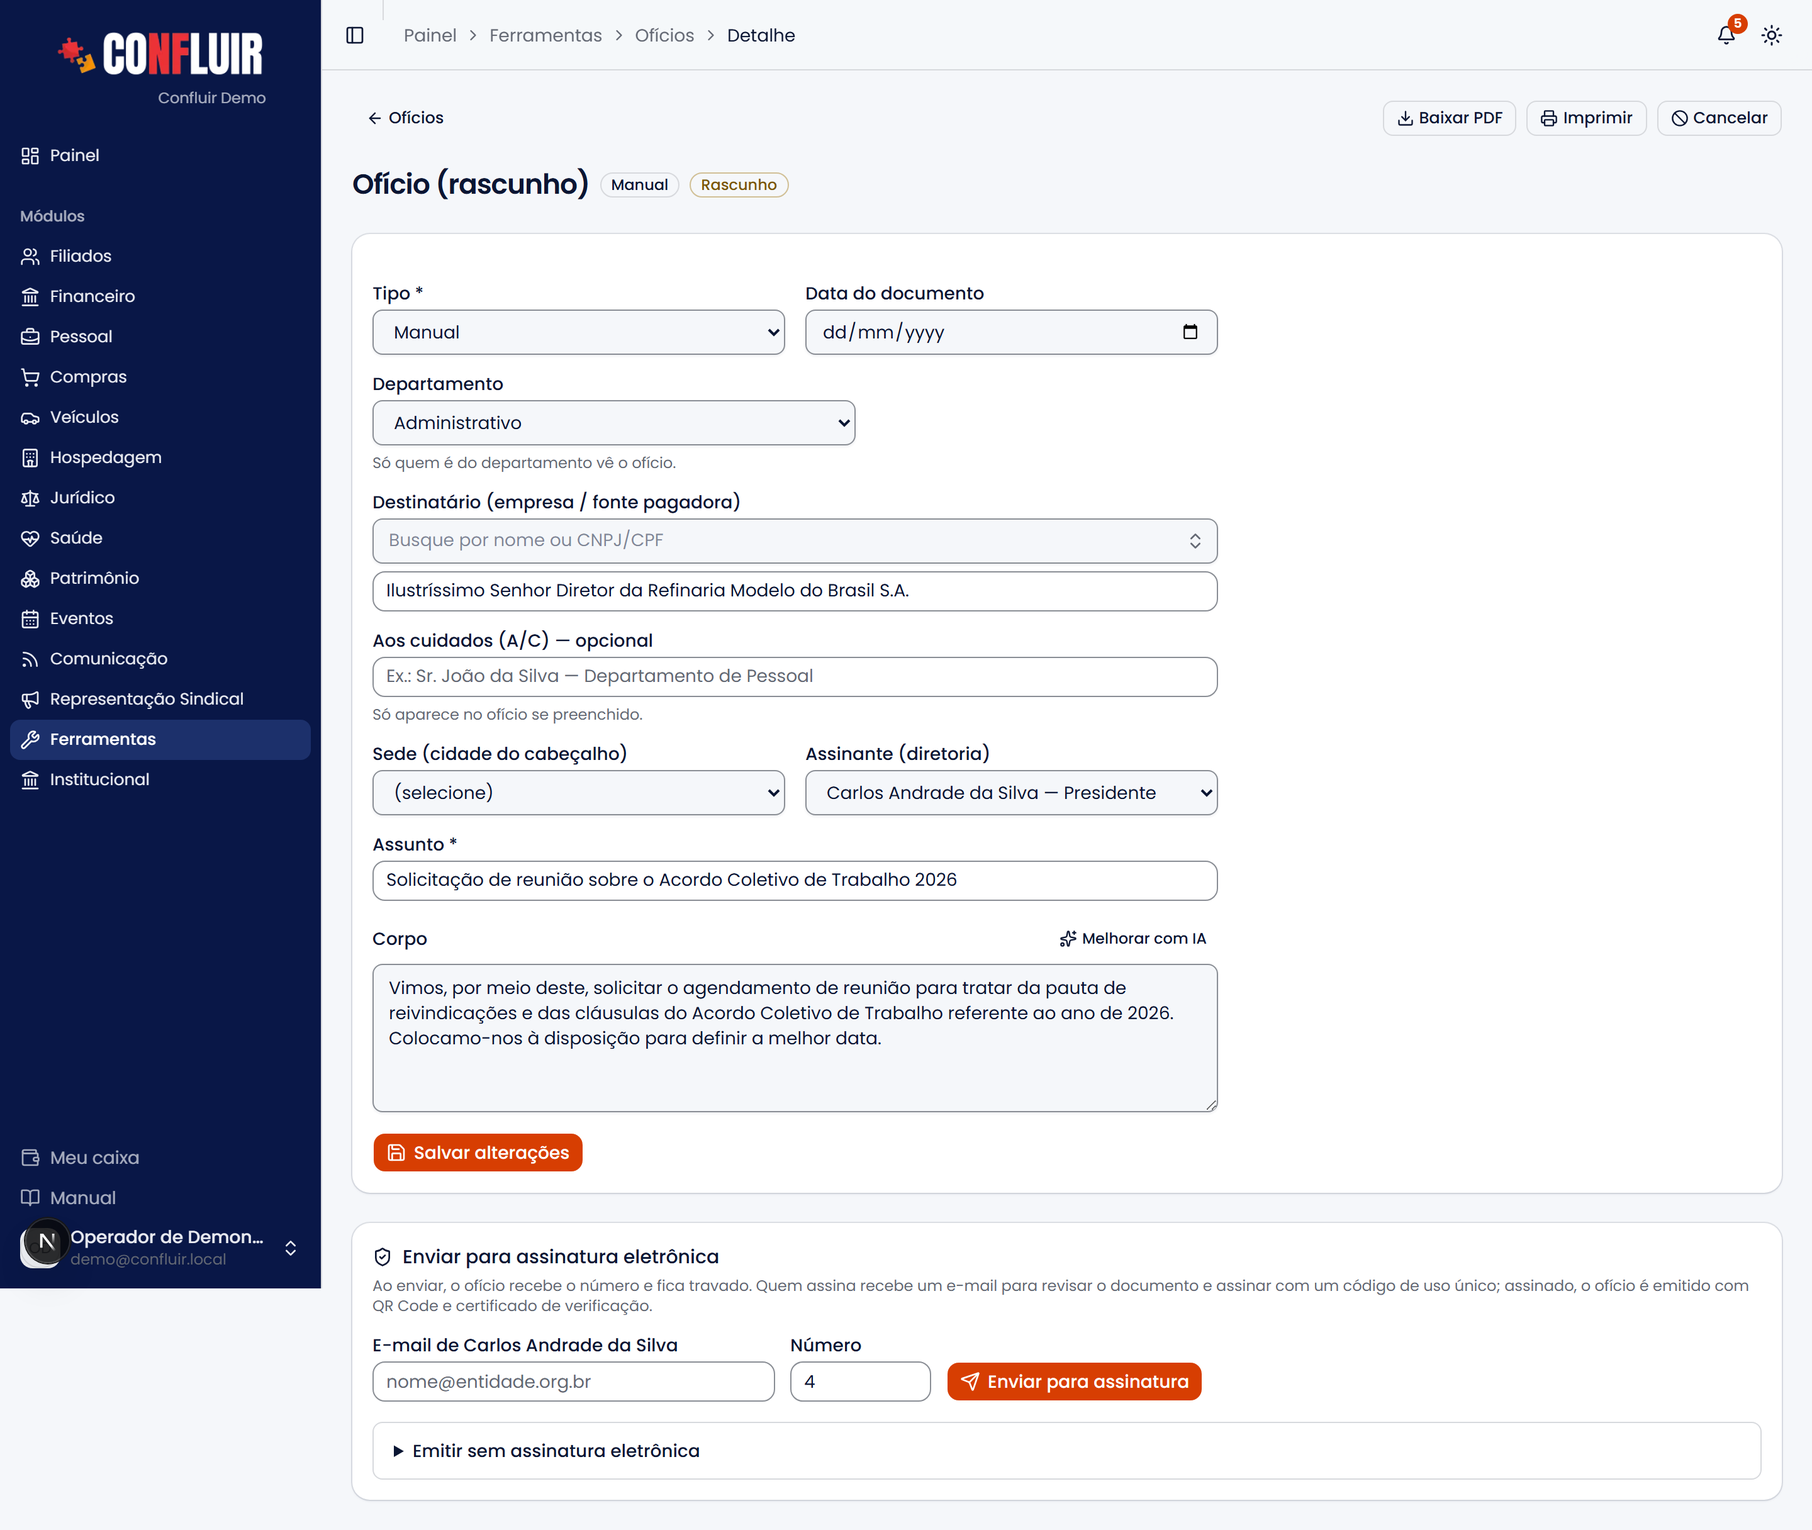
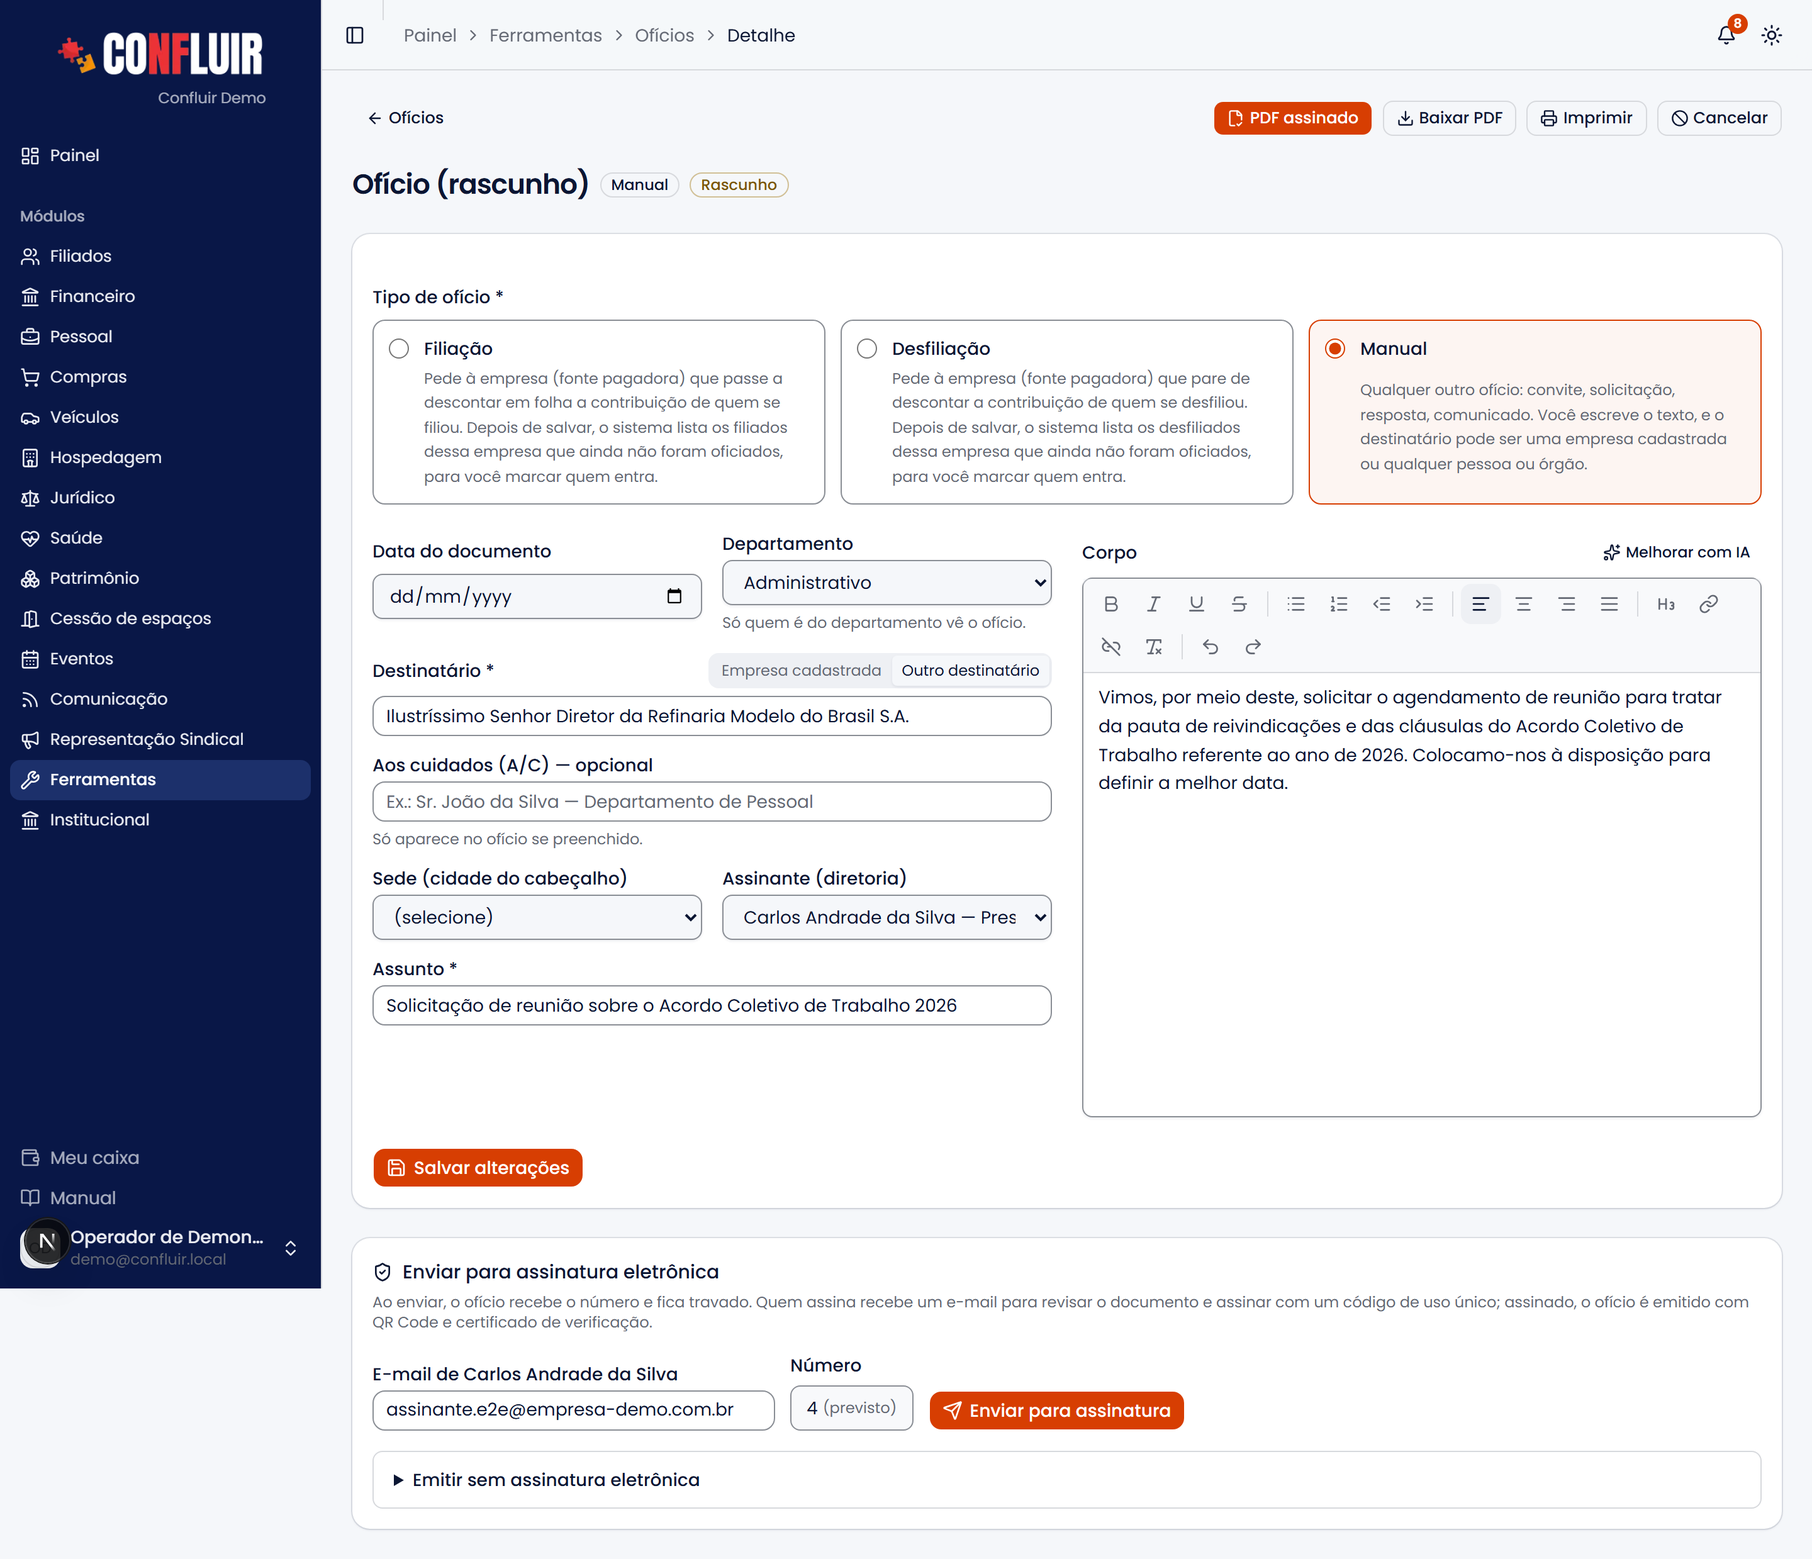
Manual: Ofícios — tipo antes do formulário e editor com formatação
- O ofício novo começa pelo tipo (Filiação, Desfiliação, Manual), com o que
  cada um faz; seção "Ofícios de filiação e desfiliação" (a lista de quem
  ainda não foi oficiado na empresa).
- Seção "Formatar o texto": negrito, itálico, sublinhado, tachado, listas com
  subníveis por Tab, recuo, alinhamento, título, link, limpar, desfazer e
  refazer; o que entra ao colar do Word/e-mail; a IA mantém a formatação.
- Ofícios do sistema anterior voltam a mostrar a formatação que tinham.
- Prints: o ofício novo (tipos) e o rascunho refeito com a barra de
  formatação; base de ajuda regerada.

diff --git a/src/lib/ajuda/base-conhecimento.ts b/src/lib/ajuda/base-conhecimento.ts
@@ -92,7 +92,7 @@ export const BASE_AJUDA: ArtigoBase[] = [
   {
     "area": "ferramentas",
     "slug": "oficios",
-    "texto": "Os ofícios são os documentos oficiais da entidade, com numeração por\nano, signatário da diretoria, assinatura eletrônica e geração de\nPDF com QR Code de verificação.\n\n Ofícios \n\n Quem vê cada ofício\n\nCada ofício pertence a um departamento, e cada pessoa vê só os ofícios dos\nseus departamentos — aqueles em que está vinculada ou é coordenadora, em\nInstitucional → Organização → Departamentos. A lista mostra, no alto, de quais\ndepartamentos você vê ofícios.\n\nQuem precisa ver todos — presidência, secretaria-geral — recebe a permissão\nOfícios — todos os departamentos, que também mostra os ofícios sem\ndepartamento (os antigos que vieram assim do sistema anterior) e libera o\nfiltro por departamento.\n\n \n\nOfício de outro departamento: \n Para quem não é do departamento, o ofício não existe: não aparece na lista, e\n o endereço direto, a impressão e o PDF respondem \"não encontrado\".\n \n\n Emitir um ofício\n\n \n \nRascunho: \n Escolha o departamento do ofício (só aparecem os seus; se você tem um só,\n ele já vem escolhido) e preencha destinatário, assunto e corpo. O signatário vem dos integrantes\n vigentes da diretoria. Há um campo opcional \"Aos cuidados\".\n \n \nEnviar para assinatura: \n No cartão Enviar para assinatura eletrônica, escolha por onde vai o\n convite — e-mail ou Telegram — confira o endereço (o sistema sugere o\n último usado, o do usuário do painel ou o da filiação) e o número (o\n próximo do ano é sugerido). Ao enviar, o ofício recebe o número, fica\n travado em \"Aguardando assinatura\" e o assinante recebe o convite.\n \n \nO assinante assina: \n Pelo botão Revisar e assinar do convite, o assinante lê o ofício\n inteiro, marca que concorda, pede um código de uso único (chega no mesmo\n canal, vale 10 minutos) e assina. Não precisa de login no Confluir.\n \n \nEmitido, com QR Code e certificado: \n Assinado, o ofício passa a Emitido sozinho. O PDF final leva o QR\n Code ao lado do cabeçalho, o carimbo \"Assinado eletronicamente em … ·\n Certificado …\" sob a assinatura e uma página final Certificado de\n assinatura eletrônica com a trilha. Quem enviou recebe e-mail e\n notificação.\n \n \n\nTipos automáticos poupam digitação: \n Alguns tipos (filiação/desfiliação) carregam a lista de pessoas a partir da\n fonte pagadora, sem você digitar nome a nome.\n \n\nOfício de liberação sindical: \n Um ofício emitido pode ser escolhido em Institucional › Diretoria para\n registrar várias liberações de uma vez. A página do ofício passa a listar\n as pessoas liberadas por ele.\n \n\n Assinatura eletrônica\n\n Quem assina não tem e-mail\n\nO Telegram resolve: se o assinante tem conta vinculada e telefone\nconfirmado em Meu perfil → Telegram, a opção Telegram aparece no cartão\nde envio, e tanto o convite quanto o código chegam pelo bot. Sem e-mail e sem\nTelegram, resta Emitir sem assinatura eletrônica e anexar depois o PDF\nassinado à mão (abaixo).\n\n Acompanhar\n\nO cartão Assinatura eletrônica do ofício mostra os três passos — enviado,\naberto pelo assinante, assinado — com data e hora, e a trilha de auditoria:\ncada envio, abertura do link, código enviado ou digitado errado, assinatura,\nrecusa e cancelamento, com endereço IP. Enquanto aguarda:\n\n- Reenviar e-mail — manda o convite de novo (lembrete) para o mesmo\n endereço.\n- Cancelar envio — o link deixa de valer e o ofício volta ao rascunho com\n o número reservado. Use para corrigir o texto ou o e-mail.\n\nQuando o assinante abre o link depois de assinado, recusado ou cancelado, a\npágina mostra o status atual em vez do passo a passo.\n\n Recusa\n\nO assinante pode recusar e dizer o motivo. O ofício volta ao rascunho, com\no número reservado; o motivo aparece no alto do cartão de envio, e quem enviou\nrecebe e-mail e notificação. Corrija e envie de novo.\n\n Conferência pelo QR Code\n\nO QR Code abre a página Verificação de assinatura (sem login), que confirma\no certificado, o número, o assunto, quem assinou, a data e hora e o resumo\nSHA-256 do conteúdo — sem mostrar o texto do ofício. Se a entidade cancelar o\nofício depois de assinado, a página avisa.\n\nPor que o conteúdo não muda depois do envio: \n No envio, o sistema calcula um resumo (SHA-256) de tudo o que o PDF mostra. Na\n assinatura, calcula de novo e só assina se for igual — o que o assinante leu é\n o que ele assinou. A assinatura eletrônica segue a Lei nº 14.063/2020; não é\n certificado digital ICP-Brasil.\n \n\n Emitir sem assinatura eletrônica\n\nPara ofício assinado à mão, abra Emitir sem assinatura eletrônica no fim do\ncartão de envio: o número é atribuído e o documento fica travado, sem QR Code\nnem certificado.\n\nEmitido assim, aparece no ofício o cartão Documento assinado à mão: anexe\nali o PDF assinado e digitalizado (até 10 MB). Ele passa a abrir pelo botão\nPDF assinado, no topo — o mesmo lugar dos ofícios do sistema anterior. Dá\npara substituir o arquivo; o anterior fica guardado no histórico.\n\n Ofícios do sistema anterior\n\nOs ofícios do sistema anterior estão na mesma lista, com número e ano. Neles o\ndocumento oficial é o arquivo assinado: quando existe, o botão PDF\nassinado aparece no topo, ao lado de Baixar PDF (que gera o PDF a partir do\ntexto). O detalhe mostra também o departamento emissor, o redator, o\n\"aos cuidados\" e as respostas recebidas, quando foram anexadas.\n\n \n\n Erros comuns\n\n- \"A lista de ofícios está vazia.\" Você não está vinculado a nenhum\n departamento — peça o vínculo em Institucional → Organização → Departamentos.\n- \"Não acho um ofício que sei que existe.\" Ele é de outro departamento (ou\n está sem departamento). Peça a quem tem Ofícios — todos os departamentos.\n- \"Não aparece o signatário que quero.\" O signatário vem dos integrantes\n vigentes da diretoria — confira o mandato em Institucional → Diretoria.\n- \"Emiti e agora não consigo editar.\" Um ofício emitido fica travado\n (é oficial). Emita um novo se precisar corrigir. Se ainda está aguardando\n assinatura, use Cancelar envio: volta ao rascunho com o mesmo número.\n- \"O assinante não recebeu o convite.\" Confira o destino na trilha, peça\n para olhar a caixa de spam e use Reenviar convite. Destino errado:\n cancele o envio e envie de novo com o endereço certo.\n- \"A opção Telegram não aparece.\" O assinante ainda não vinculou a conta ou\n não confirmou o telefone em Meu perfil → Telegram — e ele precisa ter\n usuário no painel.\n- \"O código não chegou ou expirou.\" O código vale 10 minutos; na página de\n assinatura, Enviar outro código (um por minuto). Cinco erros seguidos\n exigem um código novo.\n- \"Um ofício antigo aparece sem número.\" O sistema anterior deixou dois\n ofícios com o mesmo número no mesmo ano; aqui a numeração não se repete, então\n o segundo entrou sem número — o assunto e o arquivo continuam lá.\n- \"O número saiu fora de sequência.\" O sistema sugere o próximo do ano,\n mas confira antes de emitir — a numeração é por ano."
+    "texto": "Os ofícios são os documentos oficiais da entidade, com numeração por\nano, signatário da diretoria, assinatura eletrônica e geração de\nPDF com QR Code de verificação.\n\n Ofícios \n\n Quem vê cada ofício\n\nCada ofício pertence a um departamento, e cada pessoa vê só os ofícios dos\nseus departamentos — aqueles em que está vinculada ou é coordenadora, em\nInstitucional → Organização → Departamentos. A lista mostra, no alto, de quais\ndepartamentos você vê ofícios.\n\nQuem precisa ver todos — presidência, secretaria-geral — recebe a permissão\nOfícios — todos os departamentos, que também mostra os ofícios sem\ndepartamento (os antigos que vieram assim do sistema anterior) e libera o\nfiltro por departamento.\n\n \n\nOfício de outro departamento: \n Para quem não é do departamento, o ofício não existe: não aparece na lista, e\n o endereço direto, a impressão e o PDF respondem \"não encontrado\".\n \n\n Emitir um ofício\n\n \n \nO tipo: \n Novo ofício começa pela escolha do tipo — o resto do formulário só\n abre depois dela, já com o assunto e o texto padrão daquele tipo:\n Filiação e Desfiliação pedem à empresa que comece ou pare de\n descontar a contribuição (ver Ofícios de filiação e desfiliação, abaixo);\n Manual é qualquer outro — convite, solicitação, resposta, comunicado —,\n para uma empresa cadastrada ou qualquer pessoa ou órgão.\n \n \nRascunho: \n Escolha o departamento do ofício (só aparecem os seus; se você tem um só,\n ele já vem escolhido) e preencha destinatário, assunto e corpo — o corpo tem barra de formatação\n (ver Formatar o texto, abaixo). O signatário vem dos integrantes\n vigentes da diretoria. Há um campo opcional \"Aos cuidados\".\n \n \nEnviar para assinatura: \n No cartão Enviar para assinatura eletrônica, escolha por onde vai o\n convite — e-mail ou Telegram — confira o endereço (o sistema sugere o\n último usado, o do usuário do painel ou o da filiação) e o número (o\n próximo do ano é sugerido). Ao enviar, o ofício recebe o número, fica\n travado em \"Aguardando assinatura\" e o assinante recebe o convite.\n \n \nO assinante assina: \n Pelo botão Revisar e assinar do convite, o assinante lê o ofício\n inteiro, marca que concorda, pede um código de uso único (chega no mesmo\n canal, vale 10 minutos) e assina. Não precisa de login no Confluir.\n \n \nEmitido, com QR Code e certificado: \n Assinado, o ofício passa a Emitido sozinho. O PDF final leva o QR\n Code ao lado do cabeçalho, o carimbo \"Assinado eletronicamente em … ·\n Certificado …\" sob a assinatura e uma página final Certificado de\n assinatura eletrônica com a trilha. Quem enviou recebe e-mail e\n notificação.\n \n \n\n \n\n Ofícios de filiação e desfiliação\n\nNos tipos Filiação e Desfiliação, o destinatário é a empresa (fonte\npagadora) — é dela que sai a lista de nomes. Depois de salvar, o sistema\nmostra os filiados (ou desfiliados) dessa empresa que ainda não foram\noficiados, e você marca quem entra. Não é preciso digitar nome a nome.\n\n Formatar o texto\n\nO corpo do ofício tem uma barra de formatação, como num editor de texto:\n\n- Negrito (Ctrl+B), itálico (Ctrl+I), sublinhado (Ctrl+U) e tachado;\n- listas com marcadores ou numeradas — Tab cria um subnível e\n Shift+Tab volta; fora das listas, Tab e Shift+Tab mudam o recuo;\n- alinhamento à esquerda, centralizado, à direita ou justificado;\n- título de seção, para dividir ofícios longos;\n- link, para inserir e remover;\n- limpar formatação do trecho selecionado, desfazer (Ctrl+Z) e\n refazer (Ctrl+Y).\n\nA formatação sai igual na página do ofício, na impressão e no PDF. Melhorar\ncom IA mantém a formatação do texto.\n\nColar do Word ou do e-mail: \n Pode colar: o texto entra com o que o ofício sabe mostrar — negrito, listas,\n alinhamento, títulos, links. Imagens ficam de fora, uma tabela vira linhas\n de texto e o resto da formatação (cores, fontes) é descartado.\n \n\nOfício de liberação sindical: \n Um ofício emitido pode ser escolhido em Institucional › Diretoria para\n registrar várias liberações de uma vez. A página do ofício passa a listar\n as pessoas liberadas por ele.\n \n\n Assinatura eletrônica\n\n Quem assina não tem e-mail\n\nO Telegram resolve: se o assinante tem conta vinculada e telefone\nconfirmado em Meu perfil → Telegram, a opção Telegram aparece no cartão\nde envio, e tanto o convite quanto o código chegam pelo bot. Sem e-mail e sem\nTelegram, resta Emitir sem assinatura eletrônica e anexar depois o PDF\nassinado à mão (abaixo).\n\n Acompanhar\n\nO cartão Assinatura eletrônica do ofício mostra os três passos — enviado,\naberto pelo assinante, assinado — com data e hora, e a trilha de auditoria:\ncada envio, abertura do link, código enviado ou digitado errado, assinatura,\nrecusa e cancelamento, com endereço IP. Enquanto aguarda:\n\n- Reenviar e-mail — manda o convite de novo (lembrete) para o mesmo\n endereço.\n- Cancelar envio — o link deixa de valer e o ofício volta ao rascunho com\n o número reservado. Use para corrigir o texto ou o e-mail.\n\nQuando o assinante abre o link depois de assinado, recusado ou cancelado, a\npágina mostra o status atual em vez do passo a passo.\n\n Recusa\n\nO assinante pode recusar e dizer o motivo. O ofício volta ao rascunho, com\no número reservado; o motivo aparece no alto do cartão de envio, e quem enviou\nrecebe e-mail e notificação. Corrija e envie de novo.\n\n Conferência pelo QR Code\n\nO QR Code abre a página Verificação de assinatura (sem login), que confirma\no certificado, o número, o assunto, quem assinou, a data e hora e o resumo\nSHA-256 do conteúdo — sem mostrar o texto do ofício. Se a entidade cancelar o\nofício depois de assinado, a página avisa.\n\nPor que o conteúdo não muda depois do envio: \n No envio, o sistema calcula um resumo (SHA-256) de tudo o que o PDF mostra. Na\n assinatura, calcula de novo e só assina se for igual — o que o assinante leu é\n o que ele assinou. A assinatura eletrônica segue a Lei nº 14.063/2020; não é\n certificado digital ICP-Brasil.\n \n\n Emitir sem assinatura eletrônica\n\nPara ofício assinado à mão, abra Emitir sem assinatura eletrônica no fim do\ncartão de envio: o número é atribuído e o documento fica travado, sem QR Code\nnem certificado.\n\nEmitido assim, aparece no ofício o cartão Documento assinado à mão: anexe\nali o PDF assinado e digitalizado (até 10 MB). Ele passa a abrir pelo botão\nPDF assinado, no topo — o mesmo lugar dos ofícios do sistema anterior. Dá\npara substituir o arquivo; o anterior fica guardado no histórico.\n\n Ofícios do sistema anterior\n\nOs ofícios do sistema anterior estão na mesma lista, com número e ano. Neles o\ndocumento oficial é o arquivo assinado: quando existe, o botão PDF\nassinado aparece no topo, ao lado de Baixar PDF (que gera o PDF a partir do\ntexto). O detalhe mostra também o departamento emissor, o redator, o\n\"aos cuidados\" e as respostas recebidas, quando foram anexadas.\n\nA formatação que esses ofícios tinham — negrito, texto justificado, listas,\ntítulos — aparece na página, na impressão e no PDF gerado, como no sistema\nanterior.\n\n \n\n Erros comuns\n\n- \"A lista de ofícios está vazia.\" Você não está vinculado a nenhum\n departamento — peça o vínculo em Institucional → Organização → Departamentos.\n- \"Não acho um ofício que sei que existe.\" Ele é de outro departamento (ou\n está sem departamento). Peça a quem tem Ofícios — todos os departamentos.\n- \"Não aparece o signatário que quero.\" O signatário vem dos integrantes\n vigentes da diretoria — confira o mandato em Institucional → Diretoria.\n- \"Emiti e agora não consigo editar.\" Um ofício emitido fica travado\n (é oficial). Emita um novo se precisar corrigir. Se ainda está aguardando\n assinatura, use Cancelar envio: volta ao rascunho com o mesmo número.\n- \"O assinante não recebeu o convite.\" Confira o destino na trilha, peça\n para olhar a caixa de spam e use Reenviar convite. Destino errado:\n cancele o envio e envie de novo com o endereço certo.\n- \"A opção Telegram não aparece.\" O assinante ainda não vinculou a conta ou\n não confirmou o telefone em Meu perfil → Telegram — e ele precisa ter\n usuário no painel.\n- \"O código não chegou ou expirou.\" O código vale 10 minutos; na página de\n assinatura, Enviar outro código (um por minuto). Cinco erros seguidos\n exigem um código novo.\n- \"Um ofício antigo aparece sem número.\" O sistema anterior deixou dois\n ofícios com o mesmo número no mesmo ano; aqui a numeração não se repete, então\n o segundo entrou sem número — o assunto e o arquivo continuam lá.\n- \"O número saiu fora de sequência.\" O sistema sugere o próximo do ano,\n mas confira antes de emitir — a numeração é por ano."
   },
   {
     "area": "ferramentas",
